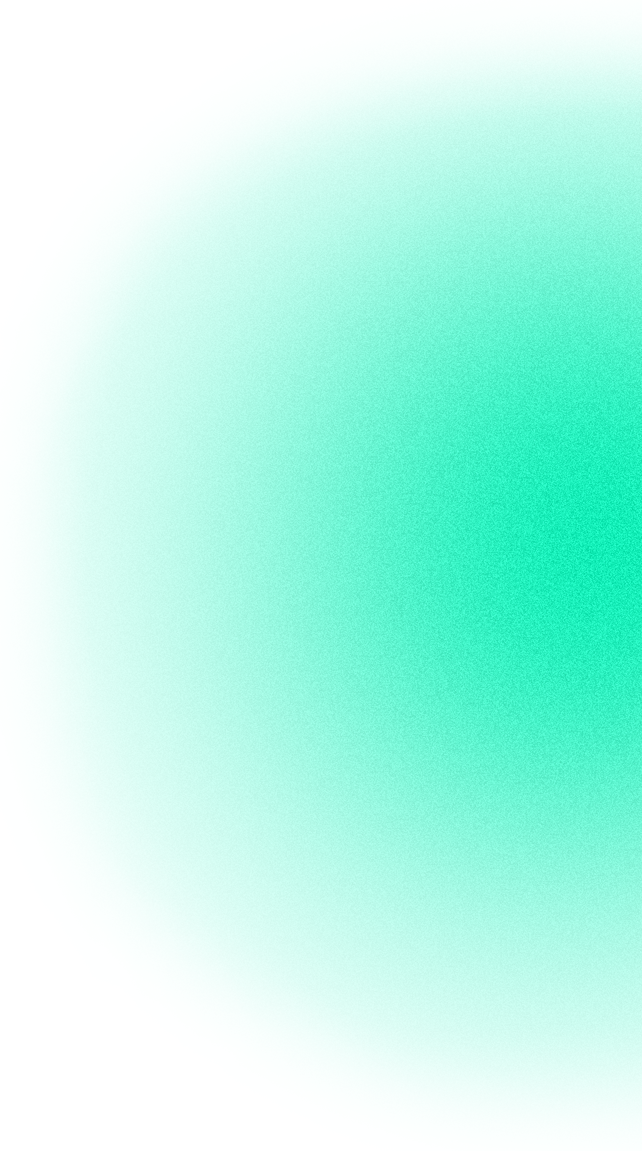
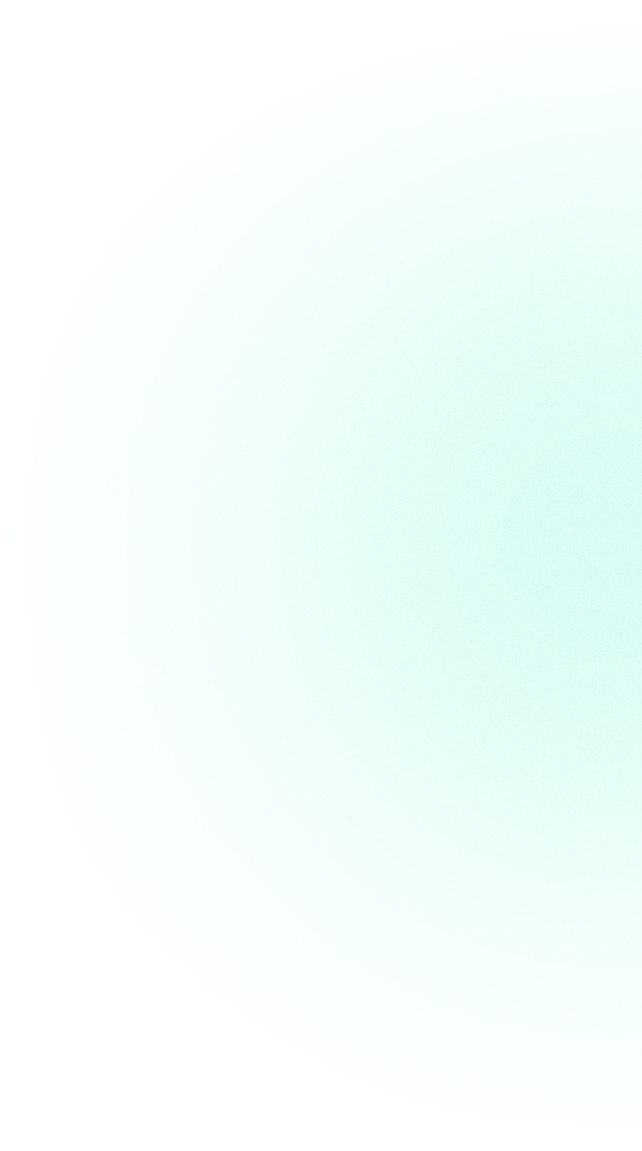
[dm gc] Added halo images to background and set max-width to main content for large screens

diff --git a/src/components/Home.jsx b/src/components/Home.jsx
@@ -4,6 +4,8 @@ import CountDownClock from './CountDownClock';
 import SubscribeForm from './SubscribeForm';
 import styles from '../assets/stylesheets/home.pcss';
 import background from '../assets/images/img_webBackground_textureCenterTop.jpg';
+import backgroundRedHaloImage from '../assets/images/img_webBackground_redHalo.png';
+import backgroundGreedHaloImage from '../assets/images/img_webBackground_greenHalo.png';
 import mainLogo from '../assets/images/img_TethysLogo_Vertical.png';
 import navLogo from '../assets/images/img_TethysLogo_Horizontal.png';
 import networkImage from '../assets/images/img_NetworkVisual.png';
@@ -17,6 +19,8 @@ const Home = () => (
     <TopNav />
 
     <div className={styles.backgroundImage} style={{ backgroundImage: `url(${background})` }} />
+    <img className={styles.redHalo} src={backgroundRedHaloImage} alt="" />
+    <img className={styles.greenHalo} src={backgroundGreedHaloImage} alt="" />
 
     <div className={styles.homeContent}>
       <section className={styles.heroSection}>
@@ -133,6 +137,7 @@ export default Home;
 
 const TopNav = () => (
   <nav className={styles.topNav} style={{ backgroundImage: `url(${background})` }}>
+    <img className={[styles.redHalo, styles.navHalo].join(' ')} src={backgroundRedHaloImage} alt="" />
     <img className={styles.navLogo} src={navLogo} alt="Tethys" />
 
     <div className={styles.navLinks}>
